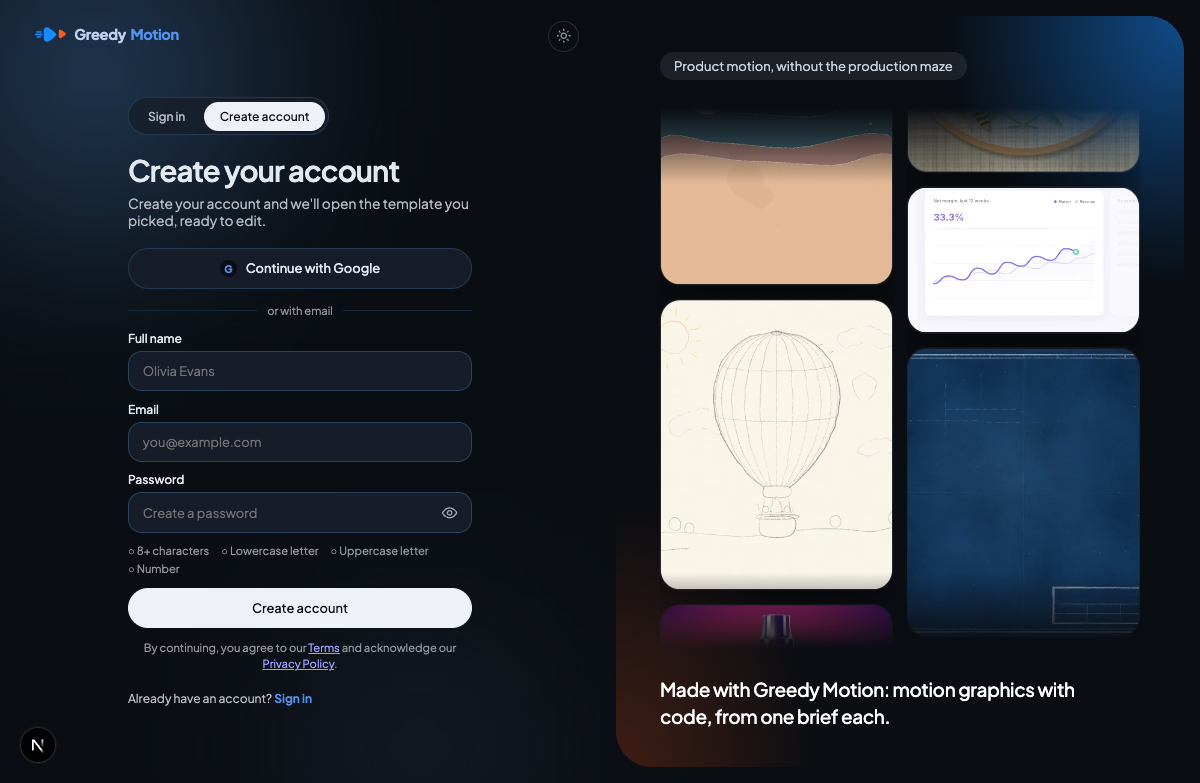
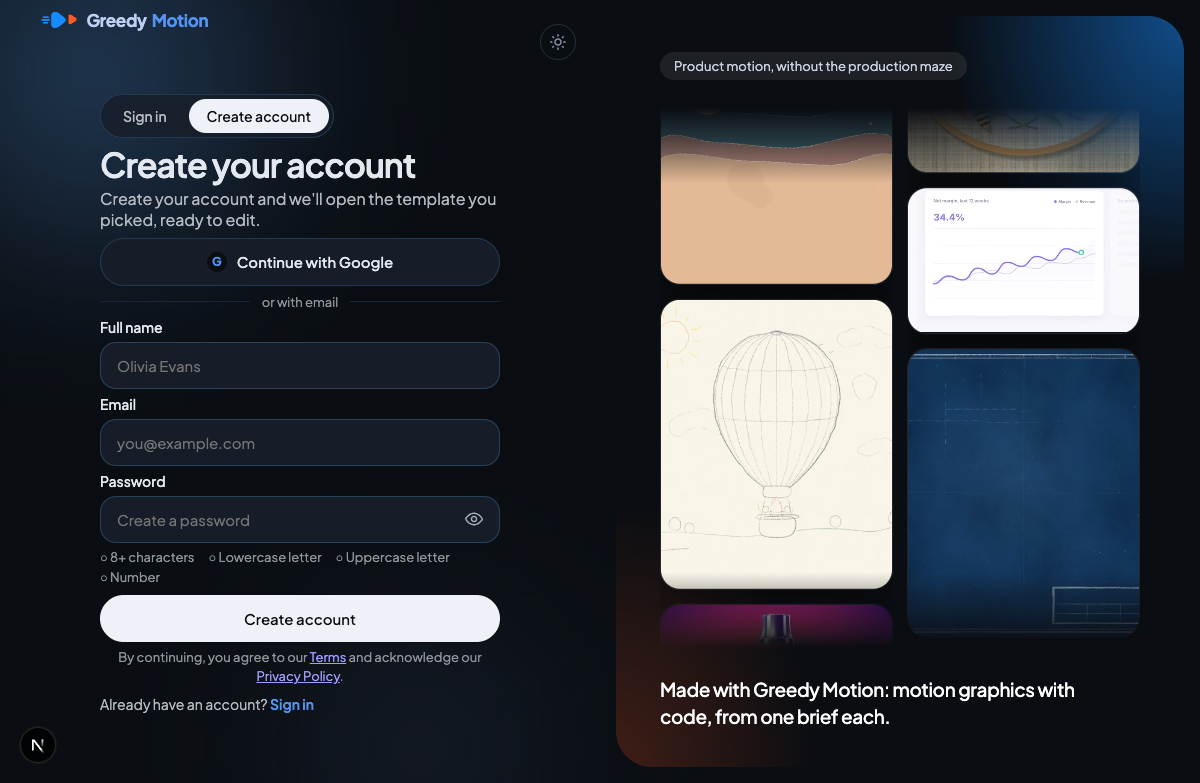
Auth form: restore original control sizes; fit the viewport by tightening gaps only

diff --git a/frontend/components/auth-page.tsx b/frontend/components/auth-page.tsx
@@ -135,7 +135,7 @@ export function AuthPage() {
   return (
     <div className="auth-root" style={{ position: "relative", minHeight: "100vh", overflow: "hidden", background: "var(--d-bg-ebf5ff)", color: "var(--d-tx-0a0d12)" }}>
       {/* Hide the showcase when the columns wrap (both need 460px), so it doesn't drop below the form */}
-      <style>{"@media (max-width: 919px) { .auth-showcase { display: none !important; } } @media (min-width: 920px) { .auth-root { height: 100vh; height: 100dvh; } .auth-grid { height: 100%; min-height: 0 !important; grid-template-rows: minmax(0, 1fr); } .auth-form { min-height: 0; overflow-y: auto; scrollbar-width: none; } .auth-form::-webkit-scrollbar { display: none; } .auth-showcase > div { height: calc(100vh - 32px) !important; height: calc(100dvh - 32px) !important; } } @media (min-width: 920px) and (max-height: 860px) { .auth-form { zoom: 0.86; } } @media (min-width: 920px) and (max-height: 740px) { .auth-form { zoom: 0.78; } } @media (min-width: 920px) and (max-height: 640px) { .auth-form { zoom: 0.66; } }"}</style>
+      <style>{"@media (max-width: 919px) { .auth-showcase { display: none !important; } } @media (min-width: 920px) { .auth-root { height: 100vh; height: 100dvh; } .auth-grid { height: 100%; min-height: 0 !important; grid-template-rows: minmax(0, 1fr); } .auth-form { min-height: 0; overflow-y: auto; scrollbar-width: none; } .auth-form::-webkit-scrollbar { display: none; } .auth-showcase > div { height: calc(100vh - 32px) !important; height: calc(100dvh - 32px) !important; } } @media (min-width: 920px) and (max-height: 860px) { .auth-form { padding-top: 14px !important; padding-bottom: 14px !important; } .auth-stack { gap: 16px !important; } .auth-methods { gap: 12px !important; } .auth-fields { gap: 8px !important; } } @media (min-width: 920px) and (max-height: 800px) { .auth-form { padding-top: 8px !important; padding-bottom: 8px !important; } .auth-stack { gap: 8px !important; } .auth-methods { gap: 8px !important; } .auth-fields { gap: 6px !important; } .auth-form h1 + p { margin-top: 4px !important; } } @media (min-width: 920px) and (max-height: 740px) { .auth-form { padding-top: 6px !important; padding-bottom: 4px !important; } .auth-stack { gap: 4px !important; } .auth-fields { gap: 4px !important; } }"}</style>
       {/* Ambient background blobs */}
       <div
         aria-hidden="true"
@@ -203,7 +203,7 @@ export function AuthPage() {
           </Link>
 
           <div style={{ flex: 1, display: "grid", placeItems: "center", padding: "40px 0" }}>
-            <div style={{ width: "100%", maxWidth: "400px", display: "flex", flexDirection: "column", gap: "22px" }}>
+            <div className="auth-stack" style={{ width: "100%", maxWidth: "400px", display: "flex", flexDirection: "column", gap: "22px" }}>
               {/* Mode switch */}
               <div
                 style={{
@@ -340,7 +340,7 @@ export function AuthPage() {
                   </button>
                 </div>
               ) : (
-                <div style={{ display: "flex", flexDirection: "column", gap: "16px" }}>
+                <div className="auth-methods" style={{ display: "flex", flexDirection: "column", gap: "16px" }}>
                   <div style={{ display: "flex", flexDirection: "column", gap: "10px" }}>
                     <button
                       type="button"
@@ -387,7 +387,7 @@ export function AuthPage() {
                     <span style={{ flex: 1, height: "1px", background: "var(--d-bg-d6e4f2)" }} />
                   </div>
 
-                  <form onSubmit={(e) => void handleSubmit(e)} style={{ display: "flex", flexDirection: "column", gap: "12px" }}>
+                  <form className="auth-fields" onSubmit={(e) => void handleSubmit(e)} style={{ display: "flex", flexDirection: "column", gap: "12px" }}>
                     {isSignup && (
                       <label style={{ display: "flex", flexDirection: "column", gap: "6px" }}>
                         <span style={{ fontSize: "14px", fontWeight: 500 }}>Full name</span>
